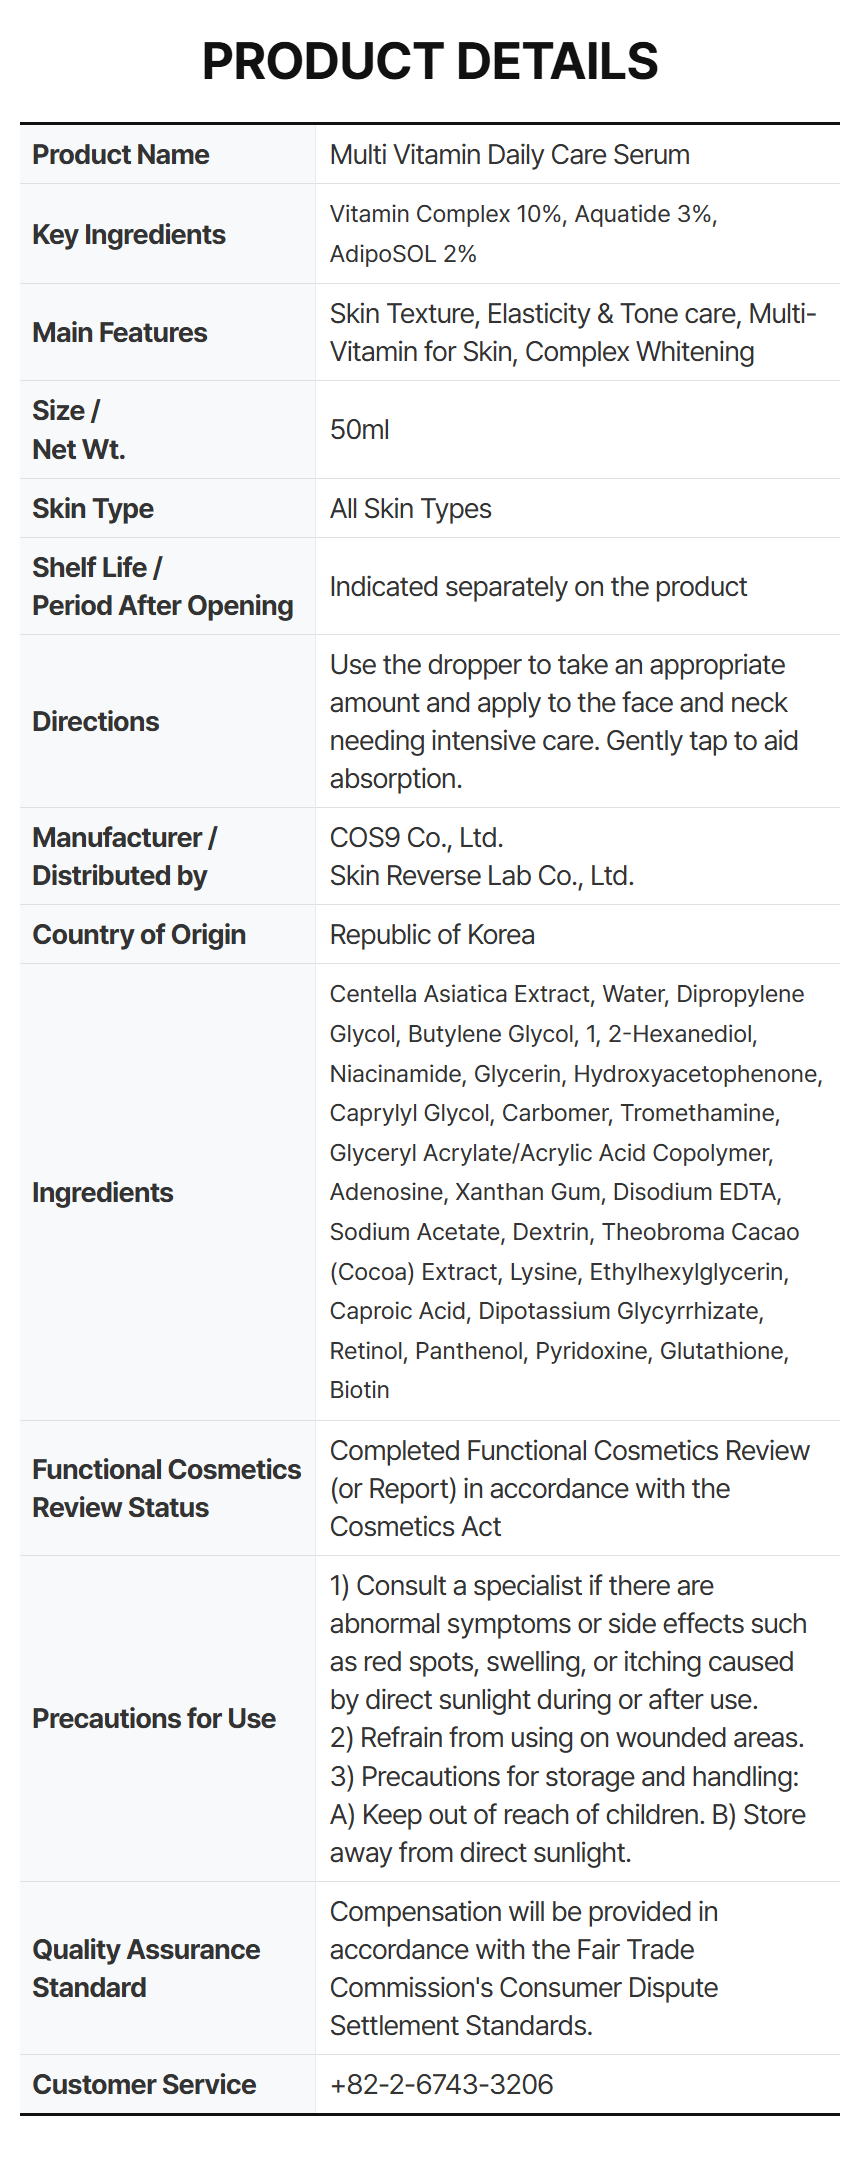
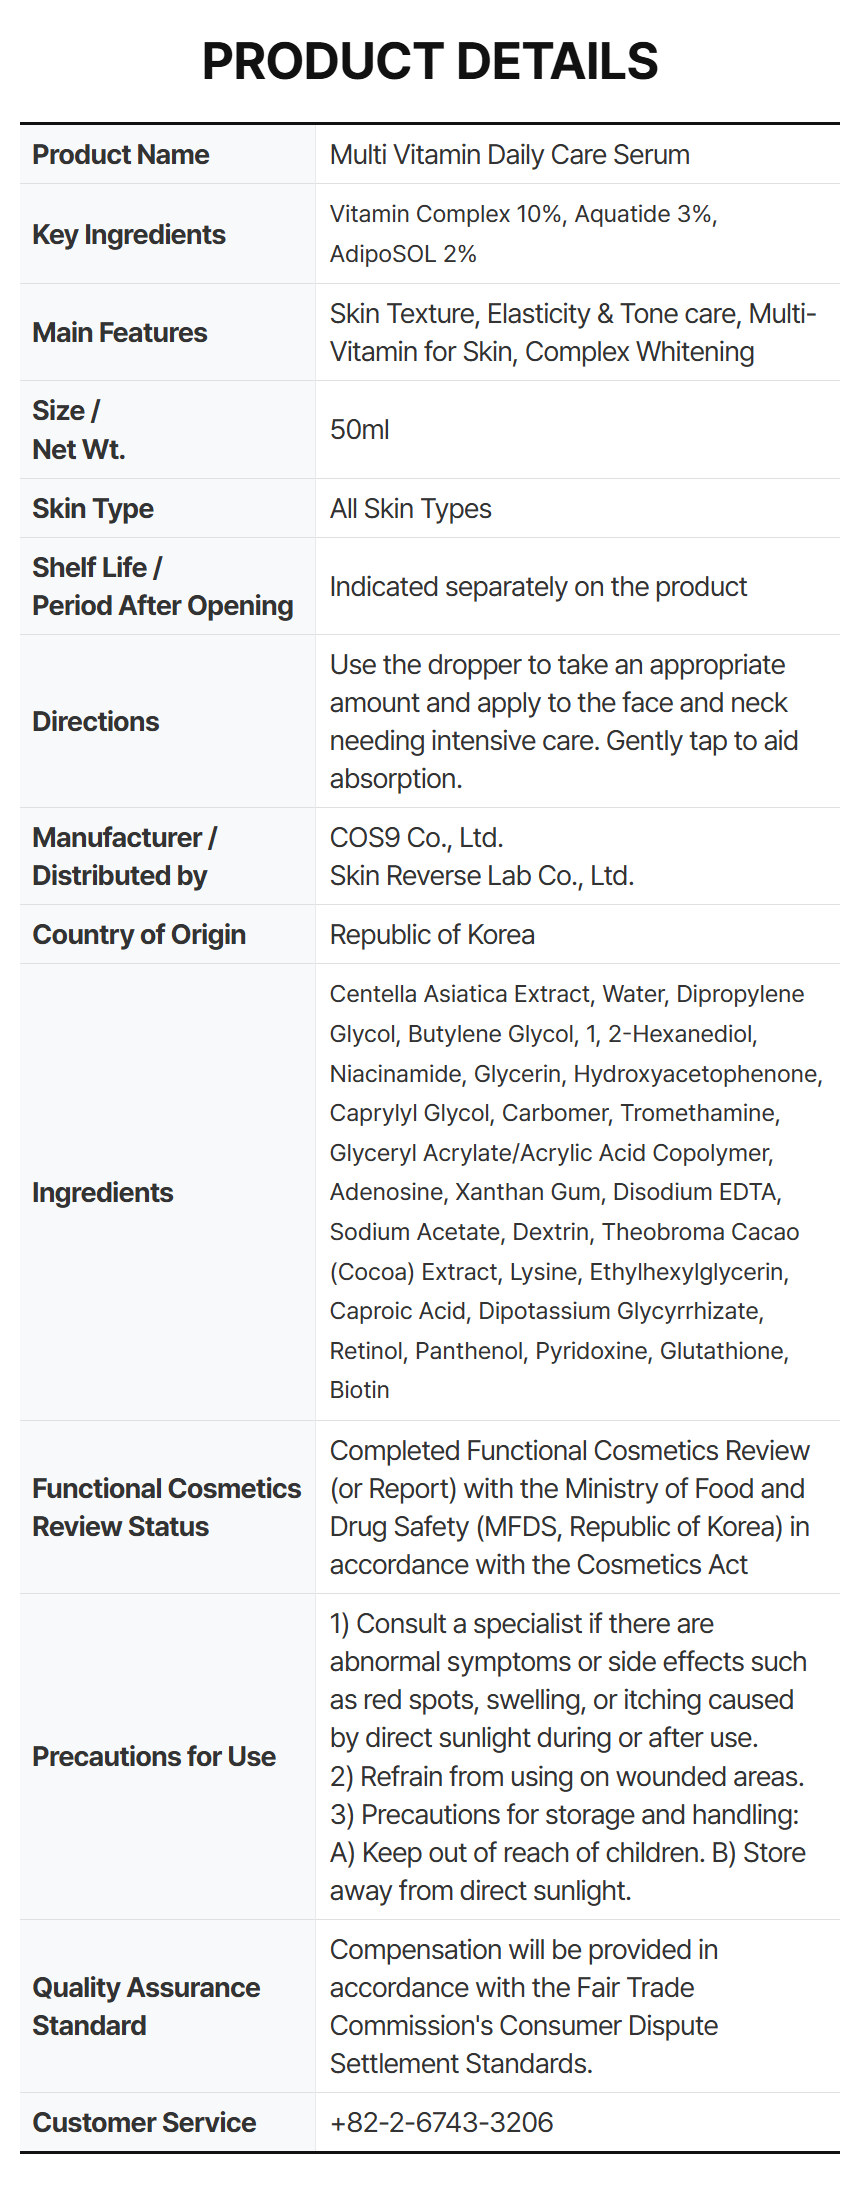
fix(compliance): specify MFDS (Republic of Korea) in functional cosmetics review mapping

diff --git a/multilingual_text_in_image_translatio_agy_sdk.py b/multilingual_text_in_image_translatio_agy_sdk.py
@@ -715,15 +715,15 @@ def standardize_notice_table_items(items: List[Dict[str, str]], lang_code: str) 
                 val = "화장품법에 따른 기능성 화장품 심사(또는 보고)를 필함"
 
             if "TW" in upper_lang or "HK" in upper_lang:
-                prefix = "已完成特定用途化粧品審查 (依化粧品衛生安全管理法完成審查)"
+                prefix = "已依韓國化粧品法完成韓國食品醫藥品安全處(MFDS)特定用途(功能性)化粧品審查(或報告)"
             elif "CN" in upper_lang or "ZH" in upper_lang:
-                prefix = "已完成特殊用途化妆品审查 (依据化妆品监督管理条例完成审查备案)"
+                prefix = "已依据韩国化妆品法完成韩国食品医药品安全处(MFDS)特殊用途(功能性)化妆品审查(或报告)"
             elif "JP" in upper_lang or "JA" in upper_lang:
-                prefix = "機能性化粧品審査済 (医薬部外品承認または薬機法基準の届出済)"
+                prefix = "韓国化粧品法に基づき韓国食品医薬品安全処(MFDS)の機能性化粧品審査(または報告)済"
             elif "KO" in upper_lang:
-                prefix = "화장품법에 따른 기능성 화장품 심사(또는 보고)를 필함"
+                prefix = "화장품법에 따른 식품의약품안전처(MFDS) 기능성화장품 심사(또는 보고)를 필함"
             else:
-                prefix = "Completed Functional Cosmetics Review (or Report) in accordance with the Cosmetics Act"
+                prefix = "Completed Functional Cosmetics Review (or Report) with the Ministry of Food and Drug Safety (MFDS, Republic of Korea) in accordance with the Cosmetics Act"
 
             match = re.match(r'^([Yy](?:es)?|[Oo]|심사필|해당(?:있음)?|是|已完成(?:審查|审查)?)\b', val, re.IGNORECASE)
             if match:

diff --git a/multilingual_text_in_image_translatio_agy_sdk_core/multilingual_text_in_image_translation.py b/multilingual_text_in_image_translatio_agy_sdk_core/multilingual_text_in_image_translation.py
@@ -715,15 +715,15 @@ def standardize_notice_table_items(items: List[Dict[str, str]], lang_code: str) 
                 val = "화장품법에 따른 기능성 화장품 심사(또는 보고)를 필함"
 
             if "TW" in upper_lang or "HK" in upper_lang:
-                prefix = "已完成特定用途化粧品審查 (依化粧品衛生安全管理法完成審查)"
+                prefix = "已依韓國化粧品法完成韓國食品醫藥品安全處(MFDS)特定用途(功能性)化粧品審查(或報告)"
             elif "CN" in upper_lang or "ZH" in upper_lang:
-                prefix = "已完成特殊用途化妆品审查 (依据化妆品监督管理条例完成审查备案)"
+                prefix = "已依据韩国化妆品法完成韩国食品医药品安全处(MFDS)特殊用途(功能性)化妆品审查(或报告)"
             elif "JP" in upper_lang or "JA" in upper_lang:
-                prefix = "機能性化粧品審査済 (医薬部外品承認または薬機法基準の届出済)"
+                prefix = "韓国化粧品法に基づき韓国食品医薬品安全処(MFDS)の機能性化粧品審査(または報告)済"
             elif "KO" in upper_lang:
-                prefix = "화장품법에 따른 기능성 화장품 심사(또는 보고)를 필함"
+                prefix = "화장품법에 따른 식품의약품안전처(MFDS) 기능성화장품 심사(또는 보고)를 필함"
             else:
-                prefix = "Completed Functional Cosmetics Review (or Report) in accordance with the Cosmetics Act"
+                prefix = "Completed Functional Cosmetics Review (or Report) with the Ministry of Food and Drug Safety (MFDS, Republic of Korea) in accordance with the Cosmetics Act"
 
             match = re.match(r'^([Yy](?:es)?|[Oo]|심사필|해당(?:있음)?|是|已完成(?:審查|审查)?)\b', val, re.IGNORECASE)
             if match:
